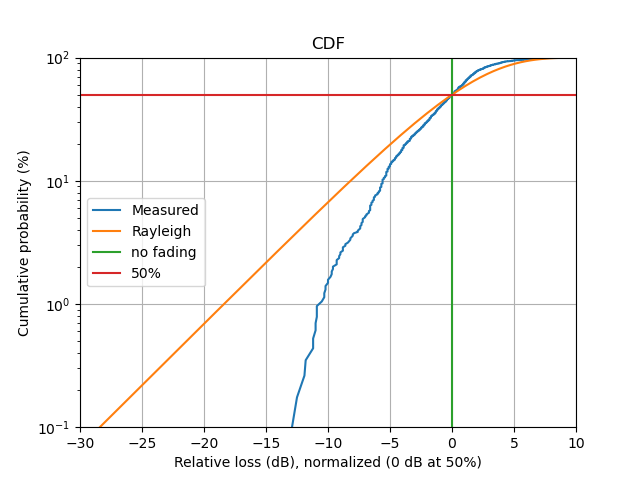
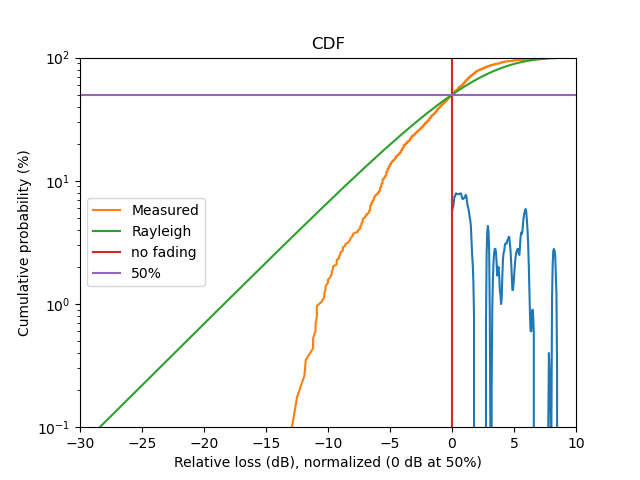
plot

diff --git a/dataprocess.py b/dataprocess.py
@@ -115,6 +115,8 @@ def small_scale_crowd(measuredRx_df, time_s):
     plt.savefig('figures/Crowd_scenario3')
     plt.show()
 
+    return xcdf, ycdf
+
 def small_scale_dense(measuredRx_df, time_s):
     max_dB = list()
     for row in measuredRx_df.iterrows():
@@ -216,6 +218,7 @@ def small_scale_dense(measuredRx_df, time_s):
     plt.savefig('figures/Dense_scenario3')
 
     plt.show()
+    return xcdf, ycdf
 
 def small_scale_static(data, time_s):
     meas_dB = [[], [], []]
@@ -304,6 +307,7 @@ def small_scale_static(data, time_s):
     plt.grid()
     plt.savefig('figures/Static_scenario3')
     plt.show()
+    return xcdf, ycdf
 
 def large_scale(name,measuredRx_df, time_df, distance, d_start=20, d_stop=None, flip=0):
     max_dB = list()
@@ -459,11 +463,28 @@ if __name__ == '__main__':
     static_data = [static1_data, static2_data, static3_data]
     static_time_s = 58
 
-    # logging.info("Static")
-    # small_scale_static(static_data, static_time_s)
+    logging.info("Static")
+    xcdf, ycdf = small_scale_static(static_data, static_time_s)
 
-    # logging.info("Crowd")
-    # small_scale_crowd(crowd2_data, crowd2_time_s)
+    logging.info("Crowd")
+    xcdf1, ycdf1 = small_scale_crowd(crowd2_data, crowd2_time_s)
 
     logging.info("Dense")
-    small_scale_dense(crowd1_data, crowd1_time_s)
+    xcdf2, ycdf2 = small_scale_dense(crowd1_data, crowd1_time_s)
+
+    x_lin = np.arange(np.power(10.0, -60/20), np.power(10.0, 10/20), 0.01)
+    x_log_rayleigh_norm = 20.0*np.log10(x_lin/sst.rayleigh.median())
+    y_rayleigh = sst.rayleigh.cdf(x_lin)
+    plt.semilogy(x_log_rayleigh_norm, 100*y_rayleigh, label='Rayleigh (Rice k=0)')
+
+    plt.semilogy(xcdf, 100*ycdf, label='Static', linewidth=3)
+    plt.semilogy(xcdf1, 100*ycdf1, label='Crowd', linewidth=3)
+    plt.semilogy(xcdf2, 100*ycdf2, label='Dense', linewidth=3)
+    plt.axvline(x=0)
+    plt.axhline(y=50)
+    plt.ylim([10E-1, 100])
+    plt.xlim([-30, 10])
+    plt.legend()
+    plt.grid()
+    plt.savefig('figures/all_scenario')
+    plt.show()
